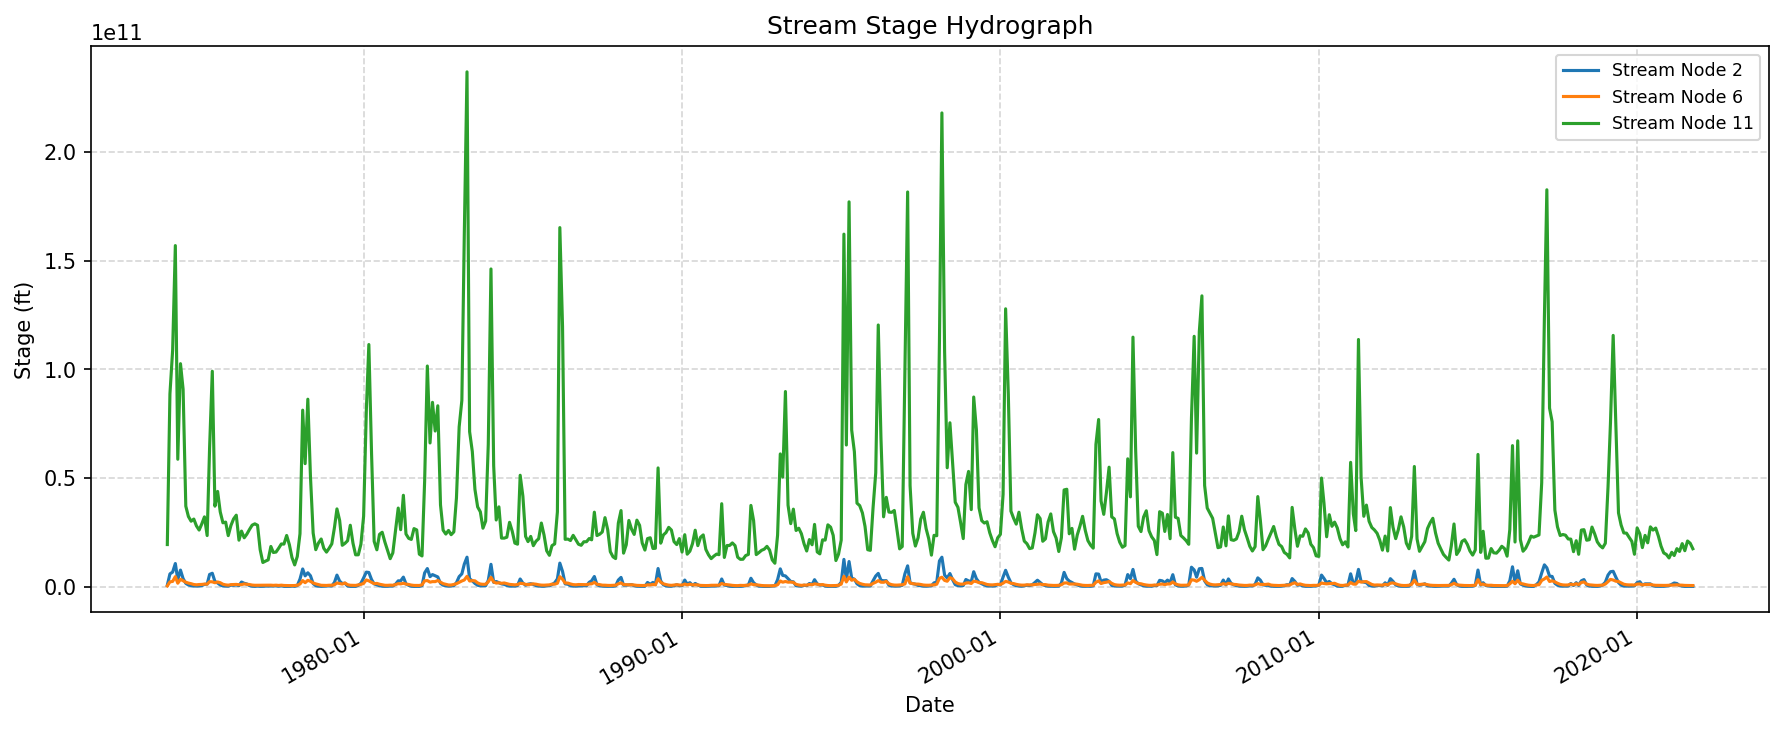
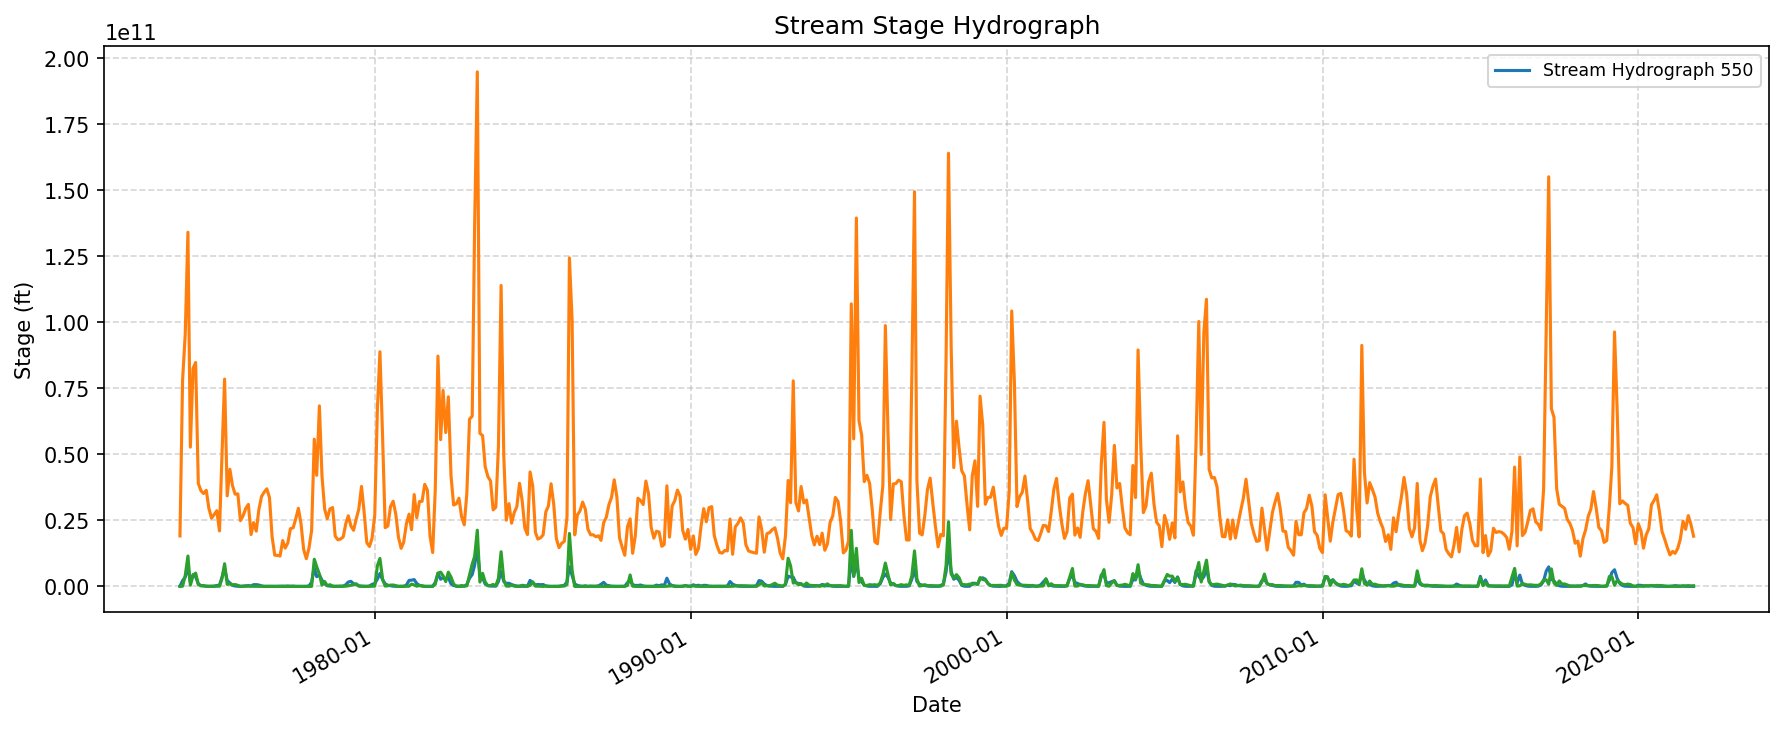
release: 2.15.2 — stream hydrograph plots passed an id where the DLL wants a position
Also regenerates the C2VSimFG gallery against a full simulation rerun
(44 DLL + 13 DLL-free images, all fresh) and corrects the documented DLL
plot pass count to the honest 45/58.

Claude-Session: https://claude.ai/code/session_016uf7KJ8S14iCAV3jsjnEAv

diff --git a/examples/test_plots_dllfree.py b/examples/test_plots_dllfree.py
@@ -1,4 +1,4 @@
-"""Exercise the nine plots that used to require the DLL, DLL-free.
+"""Exercise the plots the DLL cannot serve in inquiry mode, DLL-free.
 
 These plot functions fail through the DLL wrapper in inquiry mode (see
 docs/TEST_PLOTS_RESULTS.md); IOModelAdapter serves the same data from
@@ -23,13 +23,21 @@ os.makedirs(OUT, exist_ok=True)
 
 m = open_model(ROOT)
 n_sub = len(m.subregions_df())
+_n = m.nodes_df()
+_p1 = (float(_n["x"].min()), float(_n["y"].mean()))
+_p2 = (float(_n["x"].max()), float(_n["y"].mean()))
+_sim = m.describe()["simulation"]
+_bd, _ed = _sim["begins"], _sim["ends"]
+
 results = []
 
 def run(tag, fn):
     try:
         out = fn()
         fig = out[0] if isinstance(out, tuple) else out
-        plt.close(fig)
+        # animations return a FuncAnimation, not a Figure
+        plt.close(getattr(fig, "_fig", fig) if not hasattr(fig, "savefig")
+                  else fig)
         results.append((tag, "OK"))
         print(f"[OK]   {tag}")
     except Exception as e:
@@ -65,5 +73,26 @@ run("54 subregion depth vs shortage", lambda: plot_subregion_depth_vs_shortage(
 run("58 bypass flow diagram", lambda: plot_bypass_flow_diagram(
     m, save_path=os.path.join(OUT, "58_bypass.png")))
 
-ok = sum(1 for _, s in results if s == "OK")
+from iwfm_io.plots.profiles import plot_stratigraphic_cross_section
+run("12 stratigraphic cross-section", lambda: plot_stratigraphic_cross_section(
+    m, [_p1, _p2], save_path=os.path.join(OUT, "12_xsec.png")))
+
+from iwfm_io.plots.timeseries import plot_zbudget_timeseries
+run("18 zbudget timeseries", lambda: plot_zbudget_timeseries(
+    m, zbudget_type="GW_ZBud", zone_id=1, columns=[1, 2, 3],
+    zone_extent="Zone", elements=None, layers=None, zone_ids=None,
+    begin_date=_bd, end_date=_ed,
+    save_path=os.path.join(OUT, "18_zbudget_ts.png")))
+
+from iwfm_io.plots.cross_sections import plot_multi_layer_head_panel
+run("55 multi-layer head panel", lambda: plot_multi_layer_head_panel(
+    m, points=[_p1, _p2], begin_date=_bd, end_date=_ed, time_index=0,
+    save_path=os.path.join(OUT, "55_multi_layer_panel.png")))
+
+from iwfm_io.plots.cross_sections import animate_cross_section
+run("56 animate cross-section", lambda: animate_cross_section(
+    m, points=[_p1, _p2], layer=1, begin_date=_bd, end_date=_ed,
+    interval_frames=6, save_path=os.path.join(OUT, "56_anim_xsec.gif")))
+
+ok = sum(1 for _, st in results if st == "OK")
 print(f"\n{ok}/{len(results)} passed  ({os.path.basename(ROOT)})")

diff --git a/examples/test_plots.py b/examples/test_plots.py
@@ -284,7 +284,7 @@ with iwfm_io.dll.IWFMModel(
         zt = zbudgets[0]["zbudget_type"] if zbudgets else None
         fig, ax = plot_zbudget_timeseries(
             m, zbudget_type=zt, zone_id=1,
-            columns=[0, 1, 2], zone_extent="Zone",
+            columns=[1, 2, 3], zone_extent="Zone",
             elements=None, layers=None, zone_ids=None,
             begin_date=bd, end_date=ed,
             save_path=os.path.join(OUT, "18_zbudget_ts.png"))
@@ -571,20 +571,21 @@ with iwfm_io.dll.IWFMModel(
 
     # --- 41. Water balance Sankey (raw data) ---
     from iwfm_io.plots.water_balance import plot_water_balance_sankey
-    try:
-        # Use budget column names and synthetic mean values
-        if bt is not None:
+    # Budget column names + mean magnitudes, shared with case 43 (built
+    # outside the try so a failure here cannot leave 43 undefined).
+    # Budget columns are 1-based.
+    sankey_names = ["Inflow A", "Inflow B", "Outflow A", "Outflow B"]
+    sankey_values = [100, 80, -90, -70]
+    if bt is not None:
+        try:
             titles = m.get_budget_column_titles(bt, 1)
-            n_cols = len(titles)
-            cols = list(range(n_cols))
             ts = m.get_budget_timeseries(
-                bt, 1, cols, bd, ed, "1MON")
-            col_means = np.abs(ts["values"]).mean(axis=0)
+                bt, 1, list(range(1, len(titles) + 1)), bd, ed, "1MON")
             sankey_names = titles
-            sankey_values = col_means
-        else:
-            sankey_names = ["Inflow A", "Inflow B", "Outflow A", "Outflow B"]
-            sankey_values = [100, 80, -90, -70]
+            sankey_values = np.abs(ts["values"]).mean(axis=0)
+        except Exception as e:
+            print(f"41 budget columns unavailable, using synthetic data: {e}")
+    try:
         fig, ax = plot_water_balance_sankey(
             sankey_names, sankey_values,
             save_path=os.path.join(OUT, "41_sankey_raw.png"))
@@ -736,7 +737,7 @@ with iwfm_io.dll.IWFMModel(
         # Use first two budget columns as supply/demand proxies
         fig, ax = plot_budget_supply_gap(
             m, budget_type=bt, location=1,
-            supply_col=0, demand_col=1,
+            supply_col=1, demand_col=2,
             begin_date=bd, end_date=ed,
             save_path=os.path.join(OUT, "52_budget_supply_gap.png"))
         print("52 budget supply gap OK")

diff --git a/tests/io/test_plots_utils.py b/tests/io/test_plots_utils.py
@@ -234,3 +234,55 @@ def test_element_configs_vectorised_ints():
     np.testing.assert_array_equal(eids, [7, 8])
     assert cfgs == [[1, 2, 3, 4], [1, 2, 3, 0]]
     assert all(type(v) is int for cfg in cfgs for v in cfg)
+
+
+class TestStreamHydrographIndexing:
+    """``get_hydrograph`` takes the 1-based POSITION in the hydrograph
+    list, not the hydrograph's id.
+
+    Regression: both stream hydrograph plots passed the id, which only
+    works when ids happen to run 1..n. C2VSimFG's stream hydrograph ids
+    are stream node numbers, so the call was rejected as out of range.
+    """
+
+    class _Recorder:
+        """Minimal model: ids deliberately are not 1..n."""
+
+        IDS = [101, 202, 303]
+
+        def __init__(self):
+            self.calls = []
+
+        def get_time_specs(self):
+            return {"dates": ["10/01/1990_24:00", "09/30/1991_24:00"],
+                    "interval": "1MON"}
+
+        def get_hydrograph_type_list(self):
+            return [{"name": "Stream Flow", "location_type": 12},
+                    {"name": "Stream Stage", "location_type": 13}]
+
+        def get_hydrograph_ids(self, location_type):
+            return list(self.IDS)
+
+        def get_hydrograph(self, hyd_type, index, layer, begin_date,
+                           end_date, interval, fact_lt=1.0, fact_vl=1.0):
+            import numpy as np
+            self.calls.append(index)
+            return np.array([33970.0, 34000.0]), np.array([1.0, 2.0])
+
+    def _check(self, fn):
+        import matplotlib.pyplot as plt
+        m = self._Recorder()
+        fig, ax = fn(m, stream_node_indices=[0, 2])
+        plt.close(fig)
+        # positions 0 and 2 -> 1-based 1 and 3, never the ids 101 / 303
+        assert m.calls == [1, 3], m.calls
+        assert not set(m.calls) & set(self._Recorder.IDS), m.calls
+
+    def test_flow_hydrograph_passes_position(self):
+        from iwfm_io.plots.timeseries import plot_stream_flow_hydrograph
+        self._check(plot_stream_flow_hydrograph)
+
+    def test_stage_hydrograph_passes_position(self):
+        from iwfm_io.plots.timeseries import plot_stream_stage_hydrograph
+        self._check(plot_stream_stage_hydrograph)

diff --git a/iwfm_io/plots/timeseries.py b/iwfm_io/plots/timeseries.py
@@ -285,8 +285,11 @@ def plot_stream_flow_hydrograph(
                 f"stream hydrograph index {sn_idx} out of range "
                 f"[0, {len(hyd_ids) - 1}]")
         hyd_id = hyd_ids[sn_idx]
+        # get_hydrograph takes the 1-based POSITION in the hydrograph
+        # list, not the hydrograph's id -- they coincide only when the
+        # ids happen to run 1..n (C2VSimFG's are stream node numbers)
         dates_arr, values = model.get_hydrograph(
-            flow_type, hyd_id, 1, begin_date, end_date, interval,
+            flow_type, sn_idx + 1, 1, begin_date, end_date, interval,
             fact_lt=fact_lt, fact_vl=fact_vl,
         )
         datetimes = excel_date_to_datetime(dates_arr)
@@ -371,8 +374,11 @@ def plot_stream_stage_hydrograph(
                 f"stream hydrograph index {sn_idx} out of range "
                 f"[0, {len(hyd_ids) - 1}]")
         hyd_id = hyd_ids[sn_idx]
+        # get_hydrograph takes the 1-based POSITION in the hydrograph
+        # list, not the hydrograph's id -- they coincide only when the
+        # ids happen to run 1..n (C2VSimFG's are stream node numbers)
         dates_arr, values = model.get_hydrograph(
-            stage_type, hyd_id, 1, begin_date, end_date, interval,
+            stage_type, sn_idx + 1, 1, begin_date, end_date, interval,
             fact_lt=fact_lt, fact_vl=fact_vl,
         )
         datetimes = excel_date_to_datetime(dates_arr)

diff --git a/README.md b/README.md
@@ -217,7 +217,7 @@ python examples/test_plots.py
 # Output goes to test_output/
 ```
 
-See `docs/TEST_PLOTS_RESULTS.md` for detailed plot-test results: 48 of the 58 DLL plot tests pass in inquiry mode (all failures are DLL/inquiry-mode limitations, not wrapper bugs), and every failing function also renders DLL-free through `IOModelAdapter` — run `python examples/test_plots_dllfree.py` to verify.
+See `docs/TEST_PLOTS_RESULTS.md` for detailed plot-test results: 45 of the 58 DLL plot cases pass in inquiry mode (all failures are DLL/inquiry-mode limitations, not wrapper bugs), and every failing function also renders DLL-free through `IOModelAdapter` — run `python examples/test_plots_dllfree.py` to verify.
 
 ## Project Structure
 
@@ -282,7 +282,7 @@ The `iwfm` package wraps the IWFM C DLL using ctypes:
 
 **DLL wrapper (Windows only):**
 - Some features require `is_for_inquiry=False` with a full simulation run
-- 10 of the 58 DLL plot tests fail on the sample model due to DLL inquiry-mode limitations (spurious duplicate-node error, partial instantiation) — not wrapper bugs
+- 13 of the 58 DLL plot cases fail on the sample model due to DLL inquiry-mode limitations (spurious duplicate-node error, partial instantiation) — not wrapper bugs
 
 **`iwfm_io` (cross-platform):**
 - `IOModelAdapter.subsidence_df()` returns an empty DataFrame (per-node subsidence exists only as DLL state; observation-point series are readable via `read_hydrograph_out`)
@@ -306,6 +306,7 @@ The split reflects who wrote what: the Python code is an independent work that r
 
 ## Version History
 
+- **v2.15.2** (2026-09-14) - **Stream hydrograph plots passed an id where the DLL wants a position.** `plot_stream_flow_hydrograph` and `plot_stream_stage_hydrograph` looked up the hydrograph's *id* and passed it to `get_hydrograph`, whose second argument is the 1-based *position* in the hydrograph list. The two coincide only when the ids happen to run `1..n`, so the bug was invisible on the sample model and rejected outright on C2VSimFG, whose stream hydrograph ids are stream node numbers. Found while regenerating the plot gallery against a full C2VSimFG v1.5 run; covered by a regression test using ids that are deliberately not sequential. The example plot scripts were fixed alongside it (they passed 0-based budget column indices, which 2.13.0 started rejecting, and a name that went undefined when an earlier case failed).
 - **v2.15.1** (2026-09-14) - **Text-budget column titles.** A `.bud` written for a budget with column *groups* (the Land & Water Use and Root Zone budgets' "Agricultural Area" / "Urban Area") came back with sliced nonsense names (`A`, `gricultural A`, `rea`): the group's underline was mistaken for the end of the header block, and the banner was then chopped by column. Titles are now assembled from the lines between the last two rules, the banner is applied as a prefix so repeated titles stay distinct (`Agricultural Area (AC)` vs `Urban Area (AC)`), and titles that sit a single space apart are no longer glued together (`Gain from GW inside Model (+)` / `outside Model (+)`). Every text budget in the sample model and C2VSimFG v1.5 now recovers complete names, which also fixes `supply_demand_df()` and `get_land_use_areas()` returning zeros when a model ships text budgets rather than HDF ones.
 - **v2.15.0** (2026-09-14) - **Structural cleanup — the refactors deferred from the 2026-09-09 audit.** Behaviour is unchanged except where noted. **DLL wrapper:** the allocate-status/call/check sequence spelled out at ~140 call sites now lives once in `iwfm_io/dll/_base.py` (`call_dll`, `_DllCallMixin`, and the shared `_DllFileReader` lifecycle behind `IWFMBudget`/`IWFMZBudget`); every method keeps its signature, validation and return shape, and calls still pass through the guard (lock, model activation, working directory). Net 977 lines removed. **Readers:** `LineCursor` is gone — `IWFMFileReader` gained `from_lines()`, `peek_keyword()` and the tail-cursor role. Keyword-driven blocks in the groundwater and root-zone mains no longer stop silently at an unrecognised keyword and feed it to the next table: strict mode raises naming the block, lenient mode warns once and keeps scanning. The root-zone soil table and stream-bed rows are laid out from `header.version` when it names a modelled version (tables transcribed from the per-version Fortran), falling back to the old token-count rule; a recognised but unmodelled version (root-zone 4.0/4.01/4.13/5.0, stream 4.21/5.0) is reported instead of silently misparsed. **Adapter:** `model_adapter.py` split into `_compat_shims.py` (the DLL-API mixin), `_discovery.py` (`open_model`'s file discovery) and a `ModelLike` Protocol in `_protocols.py`; every import path still works. geopandas/shapely are imported on first geometry use, so `import iwfm_io` no longer pays for them. **Plots:** the 38 axis-setup and 52 save blocks collapse into shared `_prepare_axes`/`_finish` helpers (every plot function gained an optional `close=` keyword), animations draw the mesh and streams once instead of per frame, and the grid/stream helpers are vectorised. **Runs and downloads:** `run_model`/`run_step` stream executable output through a reader thread, log it live when `quiet=False`, and warn after `hang_warning_seconds` (default 600) of silence that a step may be stuck — IWFM's ZBudget busy-loops when its print interval exceeds the data span. `download_dll` resumes an interrupted archive with a `Range` request (the partial file is kept as `<name>.zip.part`; a complete archive that fails its checksum is always discarded). **Docs:** the plot catalogue in `docs/plotting.md` is generated from the modules — it had listed 36 names that no longer exist and omitted 35 that do.
 - **v2.14.1** (2026-09-11) - **Portability fixes found by CI on 2.14.0.** Reader-resolved child paths are absolute (a relative one was relative to the CWD at read time and written verbatim into decks living elsewhere); `write_keyed_path` relativises an absolute path against the folder of the file being written when no `base_dir` is given, and refuses to write an absolute POSIX path raw (its leading `/` reads back as a blank value — the Linux CI failure); pandas 3 copy-on-write read-only arrays (`read_all_land_use_areas` element areas, DSS values); the 2015-DLL environment-variable regression case skips when that build is not installed.

diff --git a/docs/GALLERY.md b/docs/GALLERY.md
@@ -3,10 +3,21 @@
 Every plot below was produced by `iwfm_io.plots` from **C2VSimFG v1.5**,
 DWR's fine-grid groundwater–surface water model of California's
 Central Valley (30,179 nodes, 32,537 elements, 4 layers, water years
-1974–2021). Static maps and charts come from the 58-case DLL test
-suite (`examples/test_plots.py .assets/c2vsimfg_v1.5`); the plots the
-DLL cannot serve in inquiry mode were rendered DLL-free through
-`IOModelAdapter` (`examples/test_plots_dllfree.py`).
+1974–2021), against a full simulation run of that model.
+
+44 of the images come from the DLL plot suite
+(`examples/test_plots.py .assets/c2vsimfg_v1.5`, using the model's own
+IWFM 2024.2.1594 build); the 13 plots the DLL cannot serve in inquiry
+mode — aquifer parameters, tile drains, cross-sections, zone budgets,
+land use, supply/demand, stream–aquifer exchange, bypasses — were
+rendered DLL-free through `IOModelAdapter`
+(`examples/test_plots_dllfree.py .assets/c2vsimfg_v1.5`).
+
+One plot of the 58 is missing on purpose: the **subsidence bowl** needs
+per-node subsidence, which exists only as live simulation state. In
+inquiry mode the DLL hands back an all-zero array, so the wrapper
+refuses the call rather than draw a blank map, and no output file
+carries per-node values.
 
 ## Maps
 
@@ -179,9 +190,6 @@ DLL cannot serve in inquiry mode were rendered DLL-free through
 ![anim dtw](gallery/c2vsimfg/48_anim_dtw.gif)
 
 ## Subsidence
-
-### 49 — subsidence bowl
-![subsidence bowl](gallery/c2vsimfg/49_subsidence_bowl.png)
 
 ### 50 — subsidence vs head
 ![subsidence vs head](gallery/c2vsimfg/50_subsidence_vs_head.png)

diff --git a/docs/TEST_PLOTS_RESULTS.md b/docs/TEST_PLOTS_RESULTS.md
@@ -35,6 +35,18 @@
 
 ## Executive Summary
 
+> **Re-run 2026-09-14 (iwfm-io 2.15.x):** the sample-model figure is now
+> **45 of 58**. Three cases that used to "pass" (supply/demand, stream
+> gain/loss, stream–aquifer exchange and friends) are refused up front
+> since 2.13.0, because in inquiry mode the DLL returns zero-filled
+> arrays for them rather than real data. Four others (sankey, budget
+> sankey, butterfly, budget supply gap) were fixed on 2026-09-14 — the
+> example script had been passing 0-based column indices — and the two
+> stream hydrograph cases were fixed by a real library bug: the plots
+> passed a hydrograph *id* where the DLL wants its 1-based *position*.
+> Against C2VSimFG v1.5 the split is 44 through the DLL and 13 DLL-free;
+> see [GALLERY.md](GALLERY.md).
+
 The 58 DLL test cases (covering the plot functions across the plotting modules) are exercised against the sample
 model through the DLL wrapper in inquiry mode. **Every failure is a DLL or
 inquiry-mode limitation, not a bug in the plotting library or the sample

diff --git a/docs/plotting.md b/docs/plotting.md
@@ -158,4 +158,4 @@ python examples/test_plots.py
 # Output PNGs saved to test_output/
 ```
 
-See [TEST_PLOTS_RESULTS.md](TEST_PLOTS_RESULTS.md) for pass/fail details. 48 of the 58 DLL test cases pass on the sample model; the 10 failures are DLL inquiry-mode limitations (not code bugs), and every one of those functions renders DLL-free through `IOModelAdapter` (`tests/io/test_plots_smoke.py` covers all 66 functions in CI).
+See [TEST_PLOTS_RESULTS.md](TEST_PLOTS_RESULTS.md) for pass/fail details. 45 of the 58 DLL test cases pass on the sample model; the 10 failures are DLL inquiry-mode limitations (not code bugs), and every one of those functions renders DLL-free through `IOModelAdapter` (`tests/io/test_plots_smoke.py` covers all 66 functions in CI).
